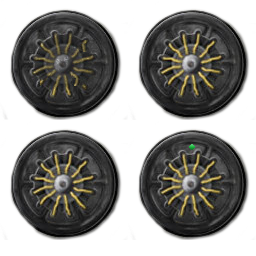
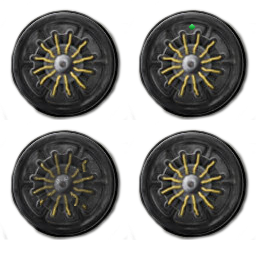
Adding some "active" sprites.

diff --git a/UnitySources/Assets/Scripts/Model/Furniture.cs b/UnitySources/Assets/Scripts/Model/Furniture.cs
@@ -57,6 +57,7 @@ namespace Assets.Scripts.Model
             GasParticlesEnabled = false;
             WorkingCharacter = null;
             IdleSprites = 0;
+            ActiveSprites = 0;
             _lastFrameChange = Random.Range(0f, 1f);
         }
 
@@ -85,6 +86,7 @@ namespace Assets.Scripts.Model
             this.GasParticlesEnabled = other.GasParticlesEnabled;
             this.WorkingCharacter = other.WorkingCharacter;
             this.IdleSprites = other.IdleSprites;
+            this.ActiveSprites = other.ActiveSprites;
 
             if (other._funcPositionValidation != null)
             {
@@ -193,6 +195,8 @@ namespace Assets.Scripts.Model
         public Character WorkingCharacter { get; set; }
 
         public int IdleSprites { get; set; }
+
+        public int ActiveSprites { get; set; }
 
         public int CurrentIdleFrame { get; set; }
 

diff --git a/UnitySources/Assets/Scripts/Model/World.cs b/UnitySources/Assets/Scripts/Model/World.cs
@@ -513,6 +513,7 @@ namespace Assets.Scripts.Model
                     isRoomEnclosure: XmlParser.ParseBool(furniture, ".//EnclosesRoom", false)
                     );
                 furn.IdleSprites = XmlParser.ParseInt(furniture, ".//IdleSprites", 0);
+                furn.ActiveSprites = XmlParser.ParseInt(furniture, ".//ActiveSprites", 0);
                 furn.Name = XmlParser.ParseString(furniture, ".//Name");
                 furn.JobSpotOffset = XmlParser.ParseVector2(furniture, ".//JobSpotOffset");
                 furn.JobSpawnOffset = XmlParser.ParseVector2(furniture, ".//JobSpawnOffset");
